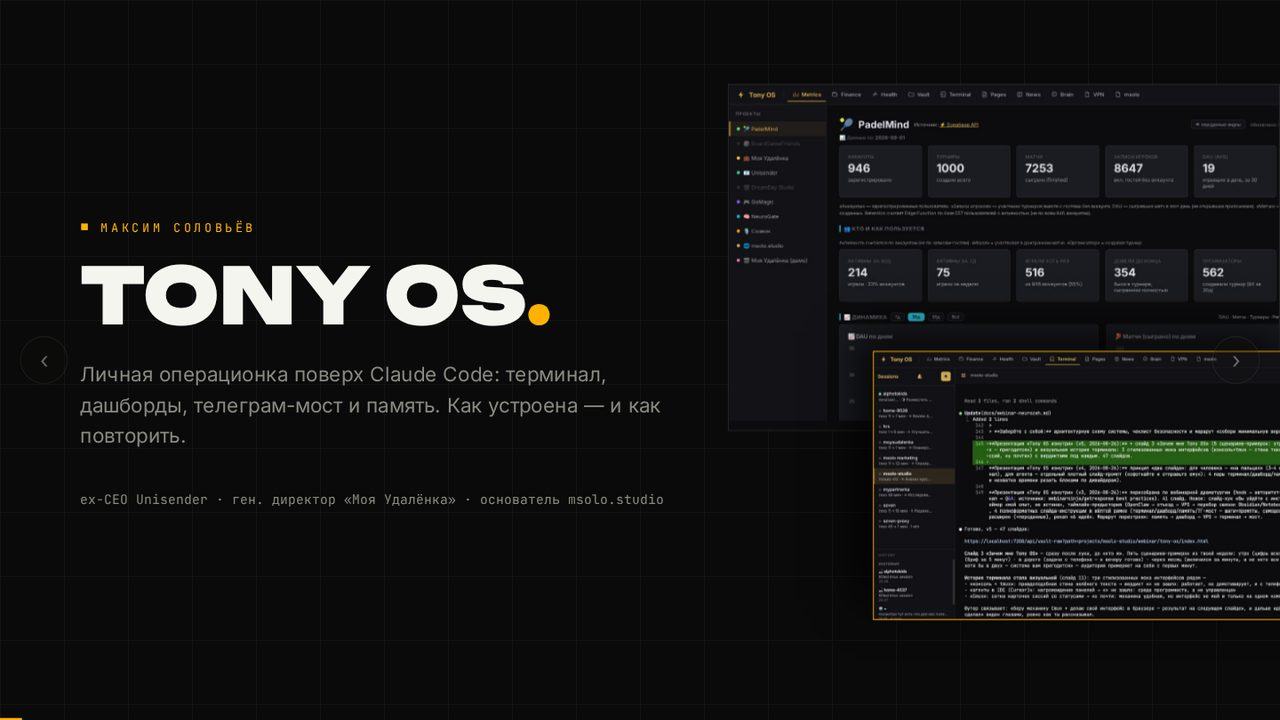
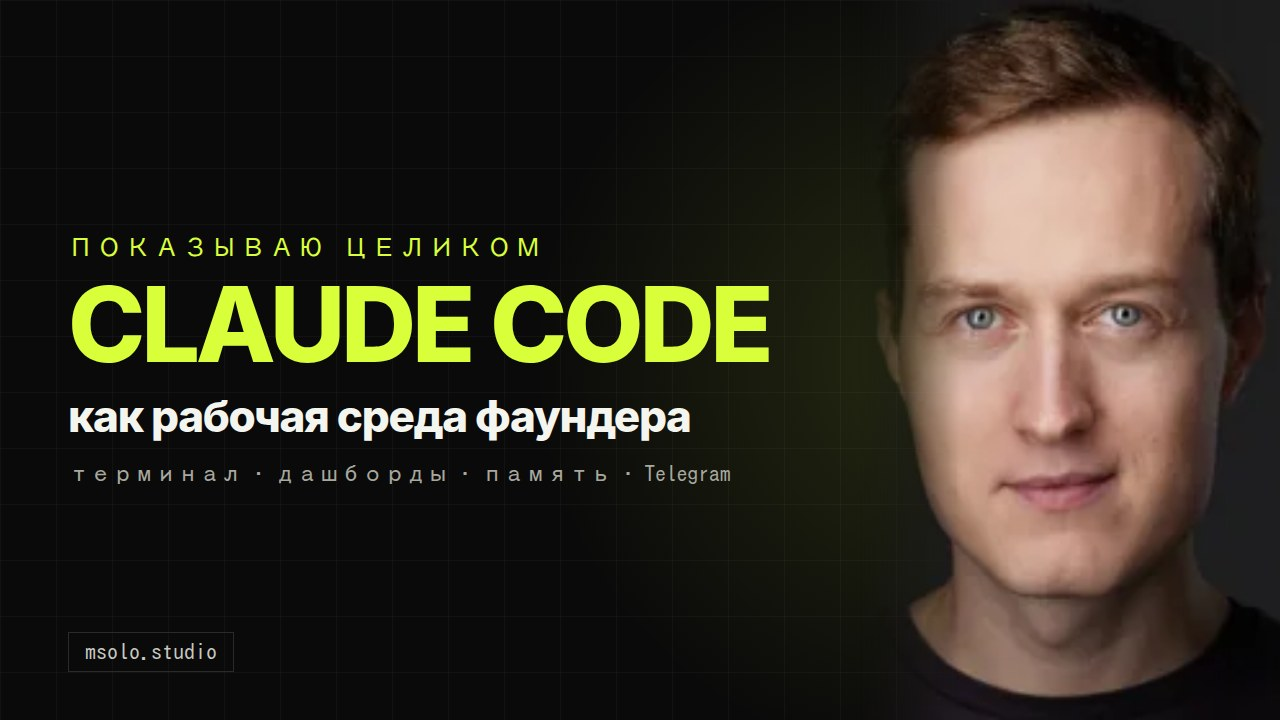
webinar: заголовок под поисковый якорь Claude Code + новая og-обложка
H1, title, description и og приведены к названию ролика: «Claude Code как
рабочая среда фаундера». Прежнее «Своя AI-среда за 3 месяца» не ловило запросы
(термин не рыночный), а срок читался целевой аудиторией как трудозатраты.
Перечисление — терминал, дашборды, память, Telegram — ушло в первую строку
описания. og-картинка заменена на новую обложку ролика.

Claude-Session: https://claude.ai/code/session_01QbQtZr7e25iZZsDWUWMCr4

diff --git a/webinar/tony-os/index.html b/webinar/tony-os/index.html
@@ -3,11 +3,11 @@
 <head>
 <meta charset="utf-8">
 <meta name="viewport" content="width=device-width,initial-scale=1">
-<title>Своя AI-среда за 3 месяца — запись вебинара «Tony OS изнутри»</title>
-<meta name="description" content="Запись вебинара: как выглядит работа фаундера с собственной AI-средой — терминал, дашборды, телеграм-мост и память. Видео и презентация с промптами на одном экране.">
-<meta property="og:title" content="Своя AI-среда за 3 месяца — Tony OS изнутри">
-<meta property="og:description" content="Как один человек управляет несколькими компаниями через собственную AI-среду. Запись вебинара и презентация с промптами рядом.">
-<meta property="og:image" content="https://msolo.me/webinar/tony-os/cover.jpg">
+<title>Claude Code как рабочая среда фаундера — запись вебинара «Tony OS изнутри»</title>
+<meta name="description" content="Запись вебинара: Claude Code как рабочая среда фаундера — терминал в браузере, дашборды с метриками, память в файлах и управление из Telegram. Видео и презентация с промптами на одном экране.">
+<meta property="og:title" content="Claude Code как рабочая среда фаундера — Tony OS изнутри">
+<meta property="og:description" content="Терминал, дашборды, память и Telegram: как один человек ведёт несколько компаний через свою среду поверх Claude Code. Запись вебинара и презентация с промптами рядом.">
+<meta property="og:image" content="https://msolo.me/webinar/tony-os/cover.jpg?v=2">
 <meta property="og:type" content="video.other">
 <link rel="preconnect" href="https://fonts.googleapis.com">
 <link rel="preconnect" href="https://fonts.gstatic.com" crossorigin>
@@ -166,8 +166,8 @@ footer{border-top:1px solid var(--line);padding:26px 0;color:var(--muted);font-s
 <header class="hero">
   <div class="wrap">
     <div class="eyebrow">Запись вебинара · сентябрь 2026</div>
-    <h1>Своя <span class="underline" style="white-space:nowrap">AI-среда</span> за 3 месяца</h1>
-    <p><b>«Tony OS изнутри»</b> — час о том, как один человек ведёт несколько компаний через собственную среду поверх Claude Code: терминал в браузере, дашборды с цифрами всех проектов, телеграм-мост и память в файлах. Слева — запись, справа — та самая презентация: её можно листать прямо здесь.</p>
+    <h1><span class="underline" style="white-space:nowrap">Claude Code</span> как рабочая среда фаундера</h1>
+    <p><b>Терминал, дашборды, память, Telegram — показываю целиком.</b> Запись вебинара «Tony OS изнутри»: час о том, как один человек ведёт несколько компаний через свою среду поверх Claude Code. Без теории — рабочие экраны и промпты, по которым это собирается. Слева запись, справа та самая презентация: её можно листать прямо здесь.</p>
     <div class="meta">
       <span><b>~60</b> минут записи</span>
       <span><b>59</b> слайдов раздатки</span>
